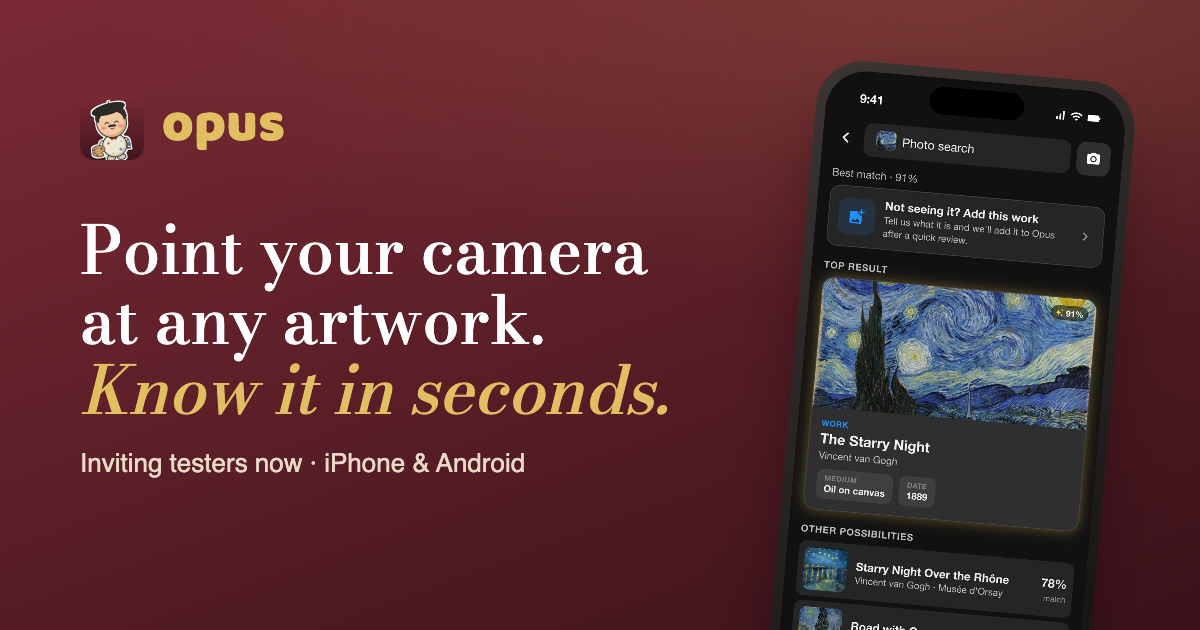
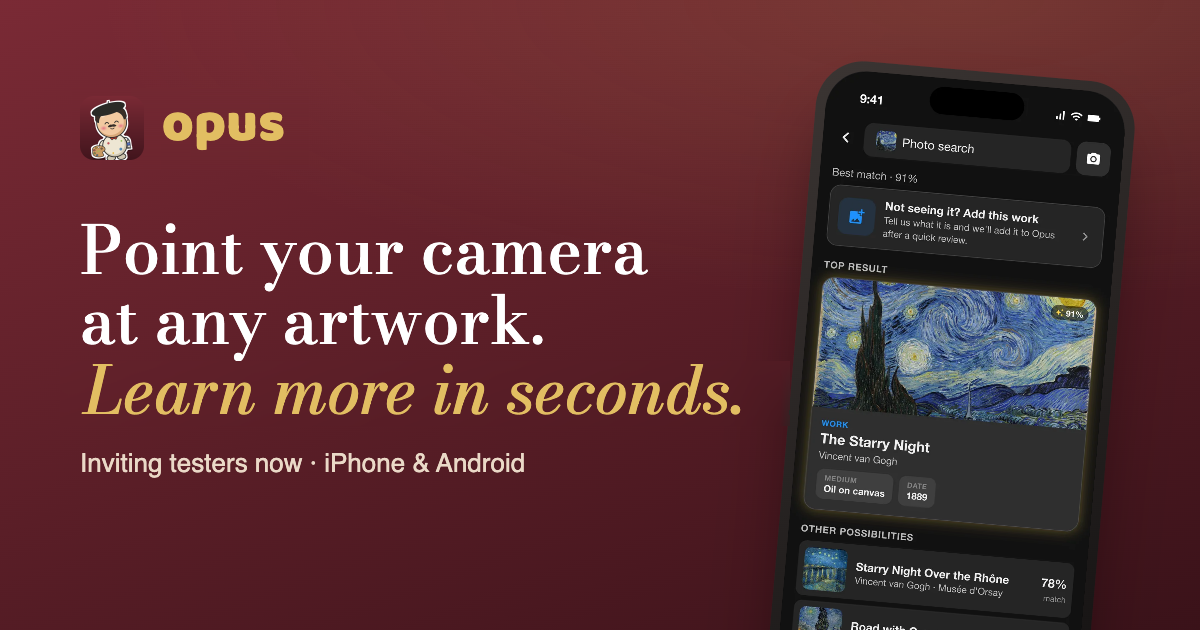
Headline: "Know it in seconds" -> "Learn more in seconds" (homepage, tagline, share card)

Changed region(s): [[0.0617, 0.573, 0.6167, 0.6635]]

diff --git a/src/lib/site.ts b/src/lib/site.ts
@@ -10,7 +10,7 @@ export const STATS = {
 
 export const SITE = {
   name: 'Opus',
-  tagline: 'Point your camera at a work of art. Know it in seconds.',
+  tagline: 'Point your camera at a work of art. Learn more in seconds.',
   description:
     'Opus recognizes paintings, sculpture and objects from a photo, then shows you the story behind them, where to see more, and what other visitors thought.',
   email: 'hello@opus-mobile.com',
